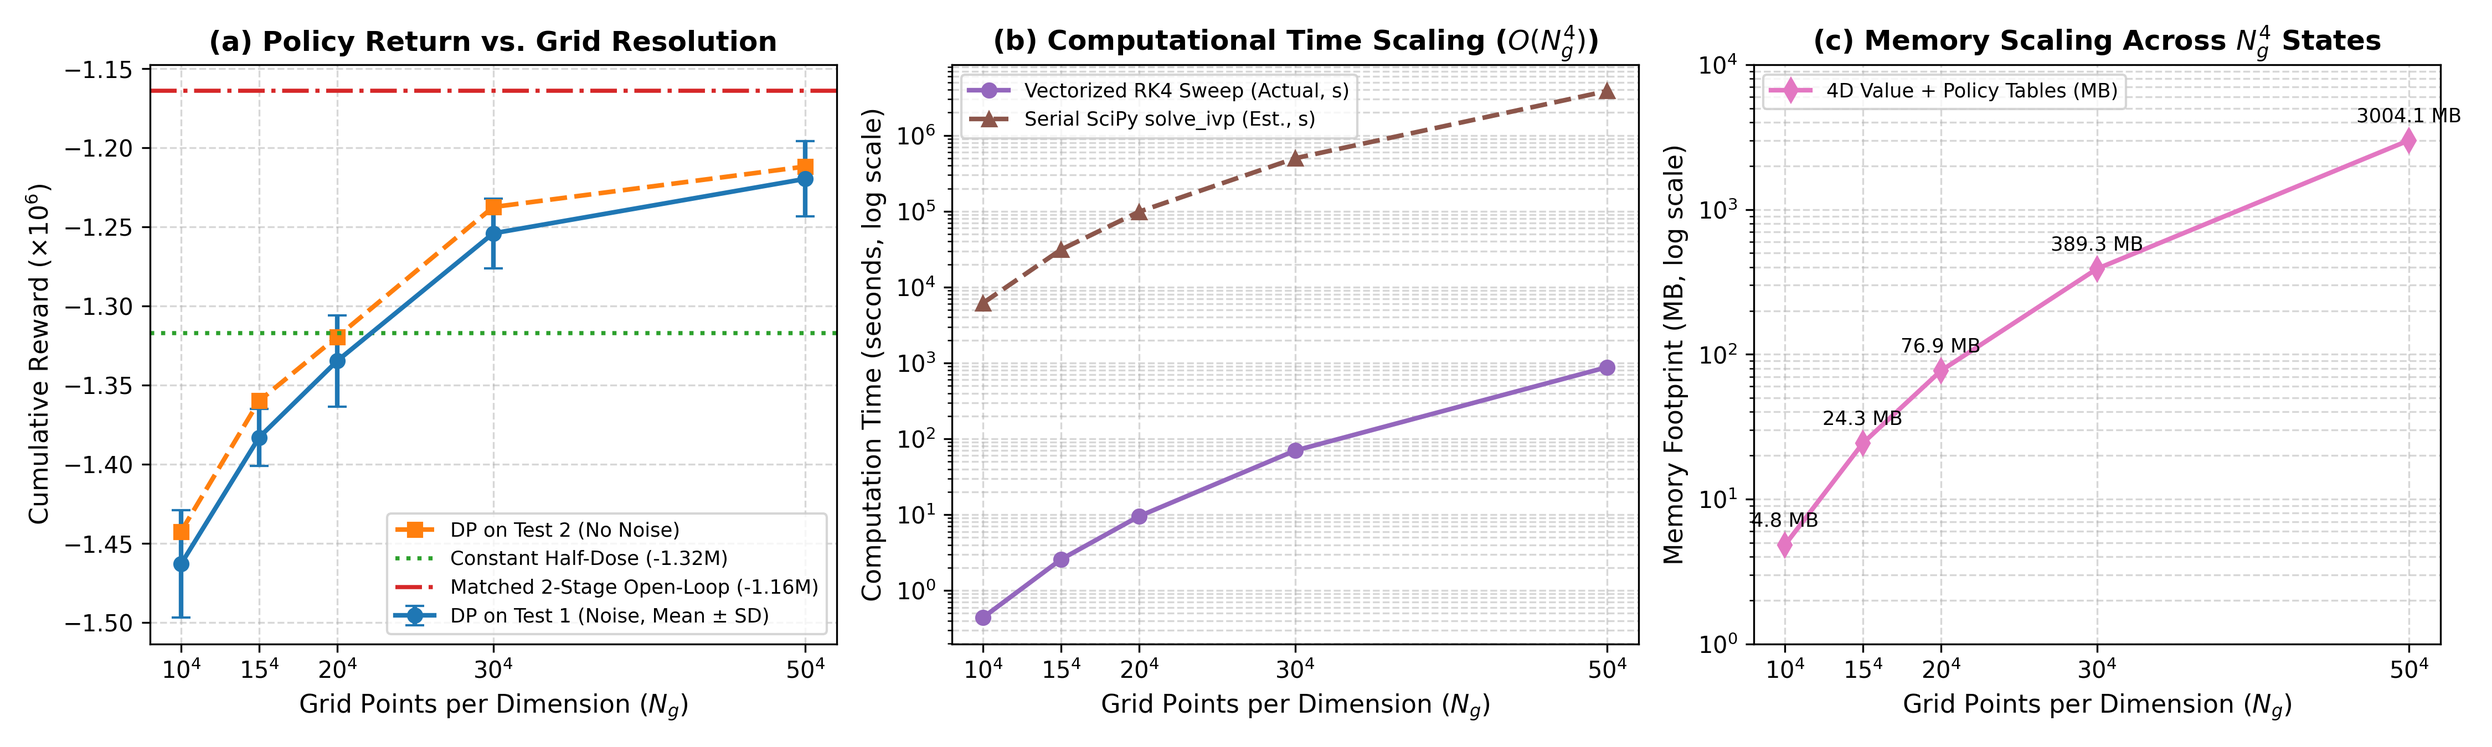
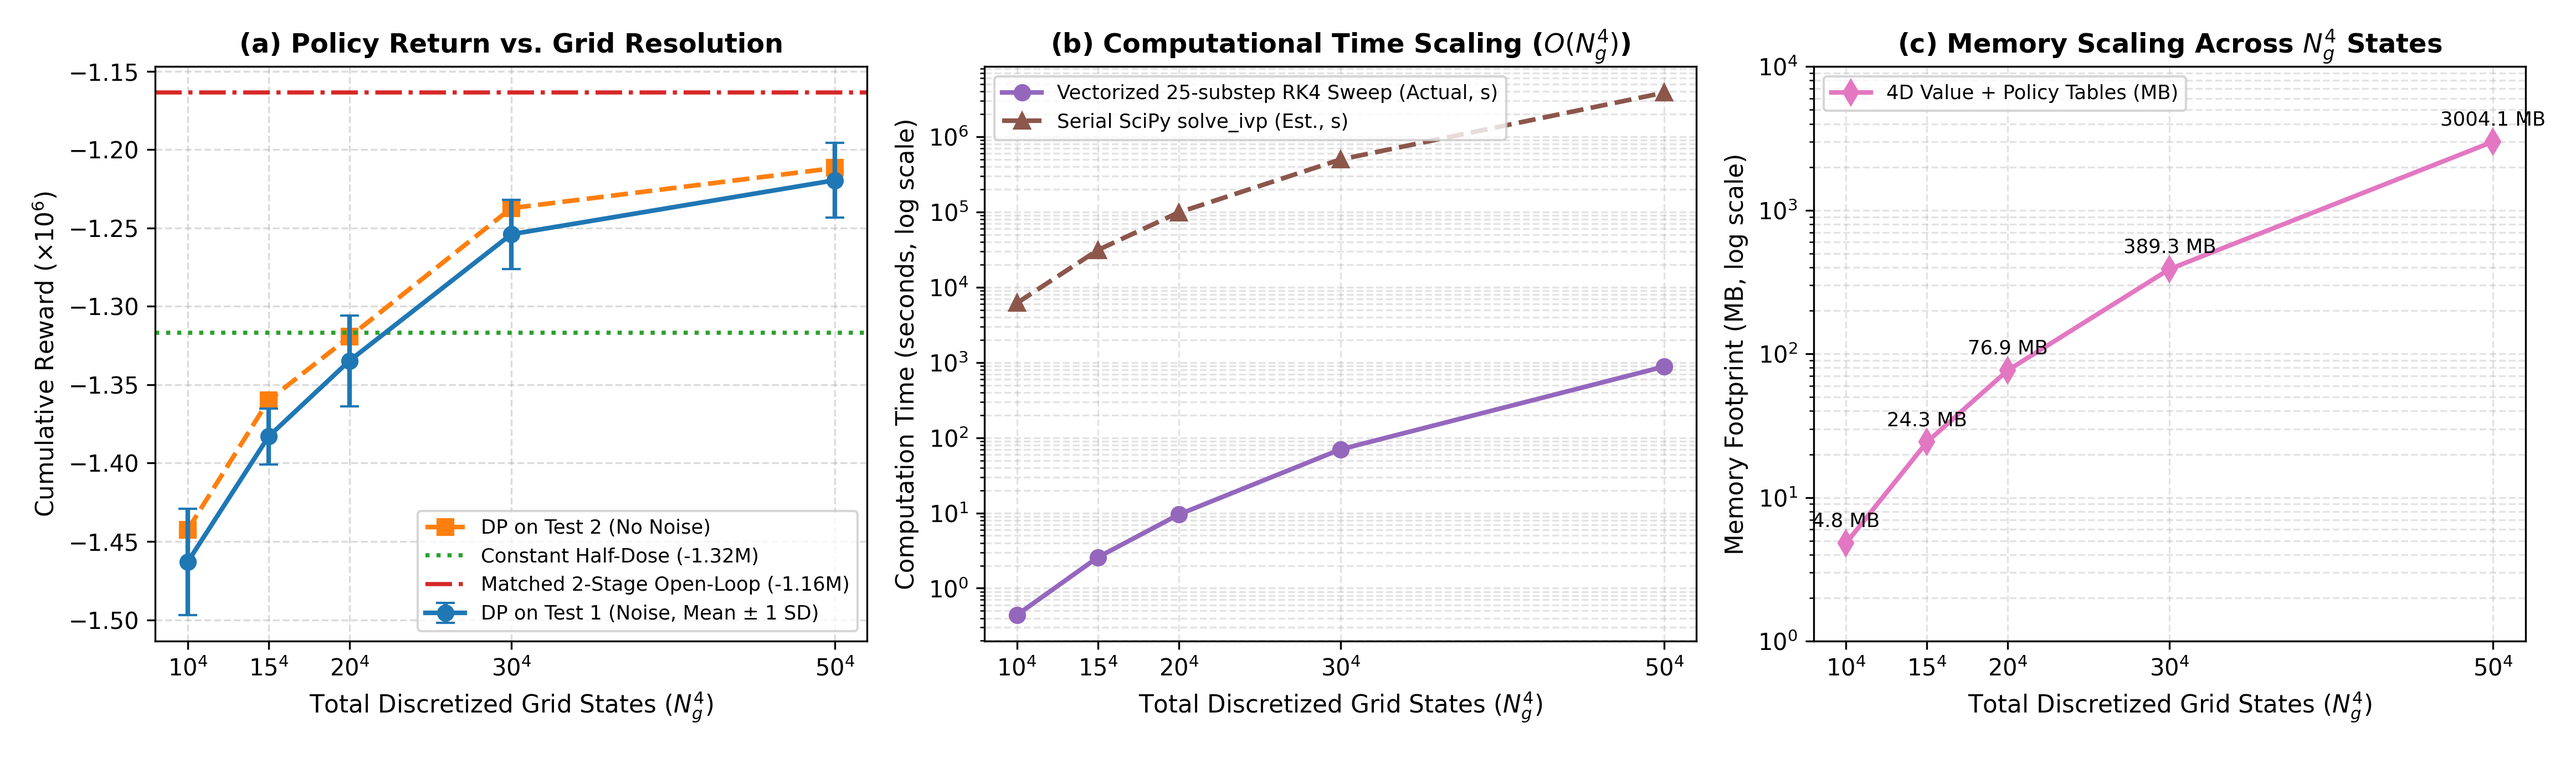
Align DP ablation plot labels, Table 6 Regime B summary, and README instructions

diff --git a/dp_grid_ablation.py b/dp_grid_ablation.py
@@ -127,8 +127,8 @@ def eval_dp(dp_tuple, weights=(1e-2, 1e-1), noise=False, seed=42):
     return total_r, float(y[0] + y[1]), 400
 
 def plot_dp_ablation(results, out_png):
+    x = np.array([r["grid_points_per_dim"] for r in results], dtype=float)
     grids = [f"${r['grid_points_per_dim']}^4$" for r in results]
-    x = np.arange(len(results))
     t1_mean = [r["test1_reward_mean"] / 1e6 for r in results]
     t1_sd = [r["test1_reward_sd"] / 1e6 for r in results]
     t2_val = [r["test2_reward"] / 1e6 for r in results]
@@ -136,35 +136,39 @@ def plot_dp_ablation(results, out_png):
     ser_rt = [r["serial_solve_ivp_est_s"] for r in results]
     mem_mb = [r["memory_mb"] for r in results]
 
-    fig, axes = plt.subplots(1, 3, figsize=(15, 4.6))
-    axes[0].errorbar(x, t1_mean, yerr=t1_sd, fmt='-o', capsize=4, linewidth=2.0, label="4D DP on Test 1 (Mean ± 1 SD, n=5)")
-    axes[0].plot(x, t2_val, '--s', linewidth=1.8, label="4D DP on Test 2 (No Noise)")
-    axes[0].axhline(-1.317, color='gray', linestyle=':', linewidth=1.6, label="Constant Half-Dose (-1.317e6)")
-    axes[0].axhline(-1.164, color='green', linestyle='-.', linewidth=1.6, label="Matched 2-Stage Open-Loop (-1.164e6)")
+    fig, axes = plt.subplots(1, 3, figsize=(15.5, 4.6))
+    axes[0].plot(x, t2_val, '--s', color='tab:orange', markersize=6.5, linewidth=2.0, label="DP on Test 2 (No Noise)")
+    axes[0].axhline(-1.3167, color='tab:green', linestyle=':', linewidth=1.8, label="Constant Half-Dose (-1.32M)")
+    axes[0].axhline(-1.1637, color='tab:red', linestyle='-.', linewidth=1.8, label="Matched 2-Stage Open-Loop (-1.16M)")
+    axes[0].errorbar(x, t1_mean, yerr=t1_sd, fmt='-o', color='tab:blue', markersize=6.5, capsize=4, linewidth=2.0, label="DP on Test 1 (Noise, Mean ± 1 SD)")
     axes[0].set_xticks(x); axes[0].set_xticklabels(grids)
-    axes[0].set_xlabel("Grid Resolution ($N_g^4$)")
-    axes[0].set_ylabel("Cumulative Return ($\\times 10^6$)")
-    axes[0].set_title("(a) Policy Return vs. Grid Resolution")
+    axes[0].set_xlabel("Total Discretized Grid States ($N_g^4$)", fontsize=10.5)
+    axes[0].set_ylabel("Cumulative Reward ($\\times 10^6$)", fontsize=10.5)
+    axes[0].set_title("(a) Policy Return vs. Grid Resolution", fontweight="bold", fontsize=11.5)
     axes[0].legend(fontsize=8.5, loc="lower right")
-    axes[0].grid(True, alpha=0.35)
+    axes[0].grid(True, linestyle='--', alpha=0.45)
 
-    axes[1].plot(x, vec_rt, '-o', linewidth=2.0, label="Vectorized 20-substep RK4 (s)")
-    axes[1].plot(x, ser_rt, '--^', linewidth=2.0, label="Est. Serial solve_ivp (s)")
+    axes[1].plot(x, vec_rt, '-o', color='tab:purple', markersize=6.5, linewidth=2.0, label="Vectorized 25-substep RK4 Sweep (Actual, s)")
+    axes[1].plot(x, ser_rt, '--^', color='tab:brown', markersize=6.5, linewidth=2.0, label="Serial SciPy solve_ivp (Est., s)")
     axes[1].set_yscale("log")
     axes[1].set_xticks(x); axes[1].set_xticklabels(grids)
-    axes[1].set_xlabel("Grid Resolution ($N_g^4$)")
-    axes[1].set_ylabel("Runtime (seconds, log scale)")
-    axes[1].set_title("(b) Computational Runtime Scaling")
-    axes[1].legend(fontsize=9, loc="upper left")
-    axes[1].grid(True, alpha=0.35)
+    axes[1].set_xlabel("Total Discretized Grid States ($N_g^4$)", fontsize=10.5)
+    axes[1].set_ylabel("Computation Time (seconds, log scale)", fontsize=10.5)
+    axes[1].set_title("(b) Computational Time Scaling ($O(N_g^4)$)", fontweight="bold", fontsize=11.5)
+    axes[1].legend(fontsize=8.5, loc="upper left")
+    axes[1].grid(True, which="both", linestyle='--', alpha=0.35)
 
-    axes[2].bar(x, mem_mb, width=0.55, color="#4c72b0", edgecolor="black")
+    axes[2].plot(x, mem_mb, '-d', color='tab:pink', markersize=7.5, linewidth=2.0, label="4D Value + Policy Tables (MB)")
+    for xi, mi in zip(x, mem_mb):
+        axes[2].annotate(f"{mi:.1f} MB", (xi, mi), textcoords="offset points", xytext=(0, 7), ha="center", fontsize=8.5)
     axes[2].set_yscale("log")
+    axes[2].set_ylim(1.0, 1e4)
     axes[2].set_xticks(x); axes[2].set_xticklabels(grids)
-    axes[2].set_xlabel("Grid Resolution ($N_g^4$)")
-    axes[2].set_ylabel("Table Memory Footprint (MB, log scale)")
-    axes[2].set_title("(c) Memory Scaling ($O(N_g^4)$)")
-    axes[2].grid(True, alpha=0.35, axis="y")
+    axes[2].set_xlabel("Total Discretized Grid States ($N_g^4$)", fontsize=10.5)
+    axes[2].set_ylabel("Memory Footprint (MB, log scale)", fontsize=10.5)
+    axes[2].set_title("(c) Memory Scaling Across $N_g^4$ States", fontweight="bold", fontsize=11.5)
+    axes[2].legend(fontsize=8.5, loc="upper left")
+    axes[2].grid(True, which="both", linestyle='--', alpha=0.35)
 
     plt.tight_layout()
     plt.savefig(out_png, dpi=300)

diff --git a/run_baselines_and_dp_ablation.py b/run_baselines_and_dp_ablation.py
@@ -84,25 +84,39 @@ def eval_schedule(schedule_fn, model_type, params, weights, seed=None, noise=Fal
             return total_r, tumor, step + 1
     return total_r, float(y[0] + y[1]), max_steps
 
-# 1. Grid-search matched open-loop constant and piecewise-constant policies on Reduced Default (No Noise)
-for w_label, weights in [("High-Penalty (A1=1e-2, A2=1e-1)", (1e-2, 1e-1)), ("Low-Penalty (A1=1e-7, A2=1e-5)", (1e-7, 1e-5))]:
-    print(f"\n==================== {w_label} ====================")
-    best_r, best_u = -np.inf, None
-    for u1 in np.linspace(0, 1000, 21):
-        for u2 in np.linspace(0, 100, 21):
-            r, tf_b, st = eval_schedule(lambda t, o: (u1, u2), 'reduced', CONFIG_PARAMS['default'], weights, noise=False)
-            if r > best_r:
-                best_r, best_u = r, (u1, u2)
-    print(f"Best constant open-loop on Default 4D: u*={best_u}, R={best_r:.4e}")
+if __name__ == "__main__":
+    # 1. Grid-search matched open-loop constant and piecewise-constant policies on Reduced Default (No Noise)
+    for w_label, weights in [("High-Penalty Regime A (A1=1e-2, A2=1e-1)", (1e-2, 1e-1)), ("Low-Penalty Regime B (A1=1e-7, A2=1e-5)", (1e-7, 1e-5))]:
+        print(f"\n==================== {w_label} ====================")
+        best_r, best_u = -np.inf, None
+        for u1 in np.linspace(0, 1000, 21):
+            for u2 in np.linspace(0, 100, 21):
+                r, tf_b, st = eval_schedule(lambda t, o: (u1, u2), 'reduced', CONFIG_PARAMS['default'], weights, noise=False)
+                if r > best_r:
+                    best_r, best_u = r, (u1, u2)
+        print(f"Best constant open-loop on Default 4D: u*={best_u}, R={best_r:.4e}")
 
-    # Two-stage piecewise constant search: stage 1 for t < t_sw, stage 2 for t >= t_sw
-    best_pw_r, best_pw = -np.inf, None
-    for t_sw in [5, 10, 15, 20, 25, 30, 35]:
-        for u1_a in [0, 250, 500, 750, 1000]:
-            for u2_a in [0, 25, 50, 75, 100]:
-                for u1_b in [0, 100, 250, 500, 1000]:
-                    for u2_b in [0, 25, 50, 100]:
-                        r, tf_b, st = eval_schedule(lambda t, o: (u1_a, u2_a) if t < t_sw else (u1_b, u2_b), 'reduced', CONFIG_PARAMS['default'], weights, noise=False)
-                        if r > best_pw_r:
-                            best_pw_r, best_pw = r, (t_sw, u1_a, u2_a, u1_b, u2_b)
-    print(f"Best 2-stage open-loop on Default 4D: params={best_pw}, R={best_pw_r:.4e}")
+        # Two-stage piecewise constant search: stage 1 for t < t_sw, stage 2 for t >= t_sw
+        best_pw_r, best_pw = -np.inf, None
+        for t_sw in [5, 10, 15, 20, 25, 30, 35]:
+            for u1_a in [0, 250, 500, 750, 1000]:
+                for u2_a in [0, 25, 50, 75, 100]:
+                    for u1_b in [0, 100, 250, 500, 1000]:
+                        for u2_b in [0, 25, 50, 100]:
+                            r, tf_b, st = eval_schedule(lambda t, o: (u1_a, u2_a) if t < t_sw else (u1_b, u2_b), 'reduced', CONFIG_PARAMS['default'], weights, noise=False)
+                            if r > best_pw_r:
+                                best_pw_r, best_pw = r, (t_sw, u1_a, u2_a, u1_b, u2_b)
+        print(f"Best 2-stage open-loop on Default 4D: params={best_pw}, R={best_pw_r:.4e}")
+
+    # 2. Explicit Table 6 reference summary across Regime A (Test 2) and Regime B (Test 2)
+    print("\n==================== Table 6 Deterministic (Test 2) Summary ====================")
+    schedules = [
+        ("Malinzi Half-Dose (500, 50)", lambda t, o: (500.0, 50.0)),
+        ("Matched Constant (600, 100) [Regime A Grid-Opt.]", lambda t, o: (600.0, 100.0)),
+        ("Full-Dose Constant (1000, 100) [Regime B Grid-Opt.]", lambda t, o: (1000.0, 100.0)),
+        ("Two-Stage (1000, 100)->(0, 100) at t_sw=10 d", lambda t, o: (1000.0, 100.0) if t < 10 else (0.0, 100.0)),
+    ]
+    for name, fn in schedules:
+        ra, ba, sa = eval_schedule(fn, 'reduced', CONFIG_PARAMS['default'], (1e-2, 1e-1), noise=False)
+        rb, bb, sb = eval_schedule(fn, 'reduced', CONFIG_PARAMS['default'], (1e-7, 1e-5), noise=False)
+        print(f"{name:52s} | RegA T2={ra:12.2f} (burd={ba:.3f}, {sa}d) | RegB T2={rb:12.2f}")

diff --git a/README.md b/README.md
@@ -4,7 +4,7 @@ This repository contains the source code, multi-seed experimental suite, Dynamic
 **"Optimal Control of a Virotherapy-Chemotherapy Combination Model via Deep Reinforcement Learning: A Comprehensive Framework"** (*Computer Methods and Programs in Biomedicine*).
 
 ## Overview
-This project benchmarks four continuous-action actor-critic Deep Reinforcement Learning (DRL) algorithms—**TRPO**, **PPO**, **TD3**, and **SAC**—against classical Dynamic Programming (DP) and matched open-loop dosing schedules on the nonlinear 4D (reduced, immune-excluded) and 6D (full, immune-active) chemo-virotherapy ordinary differential equation (ODE) models of Malinzi et al. (2017).
+This project benchmarks four continuous-action actor-critic Deep Reinforcement Learning (DRL) algorithms—**TRPO**, **PPO**, **TD3**, and **SAC**—against classical Dynamic Programming (DP) and matched open-loop dosing schedules on the nonlinear 4D (reduced, immune-excluded) and 6D (full, immune-active) chemo-virotherapy ordinary differential equation (ODE) models of Malinzi et al. (2018).
 
 ## Repository Contents
 * `ODE-RL-Control.ipynb`: Interactive Jupyter Notebook containing the custom Gymnasium environment, Optuna hyperparameter search, agent training, and trajectory visualizations.
@@ -36,6 +36,9 @@ python run_baselines_and_dp_ablation.py
 # 2. Run 4D Dynamic Programming grid resolution ablation (10^4 to 50^4 states)
 python dp_grid_ablation.py
 
-# 3. Run 5-seed DRL training and statistical evaluation across Models 1-4 and Tests 1-4
+# 3. Run 5-seed DRL training and evaluation across Models 1-4 and Tests 1-4
 python run_multiseed_drl.py
+
+# 4. Run statistical post-processing (Mann-Whitney U, 95% CIs) and generate learning-curve plots
+python analyze_and_plot.py
 ```
